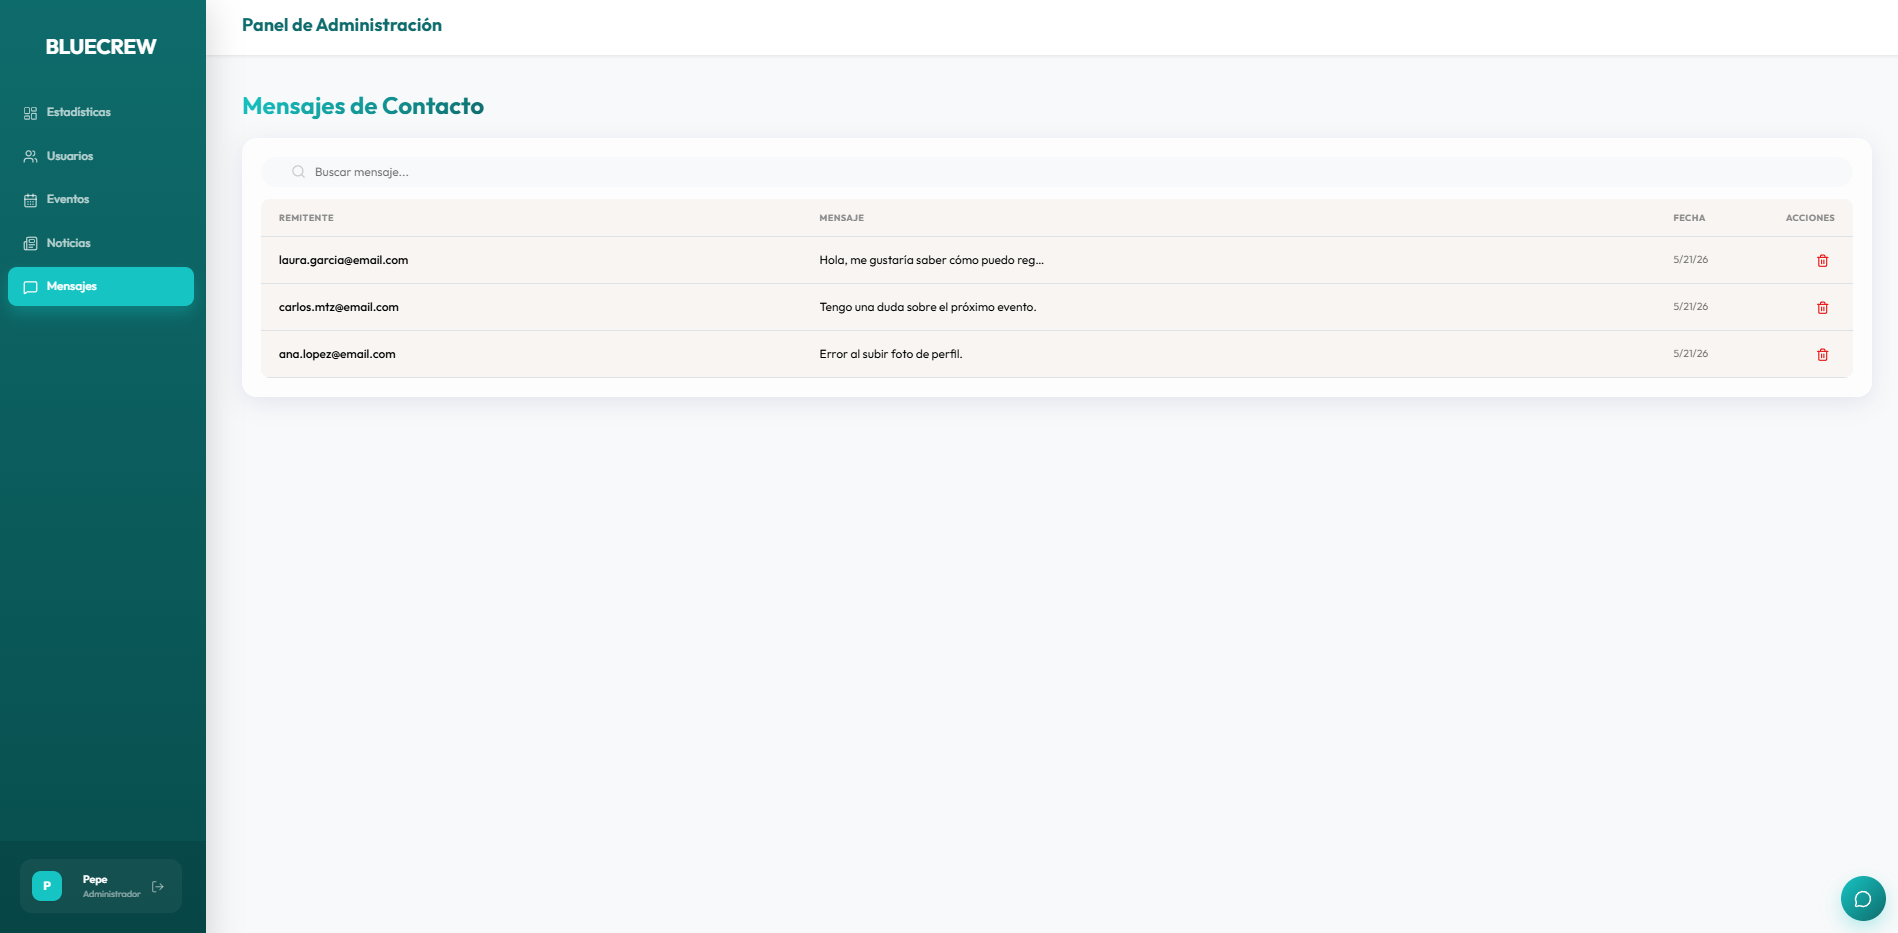
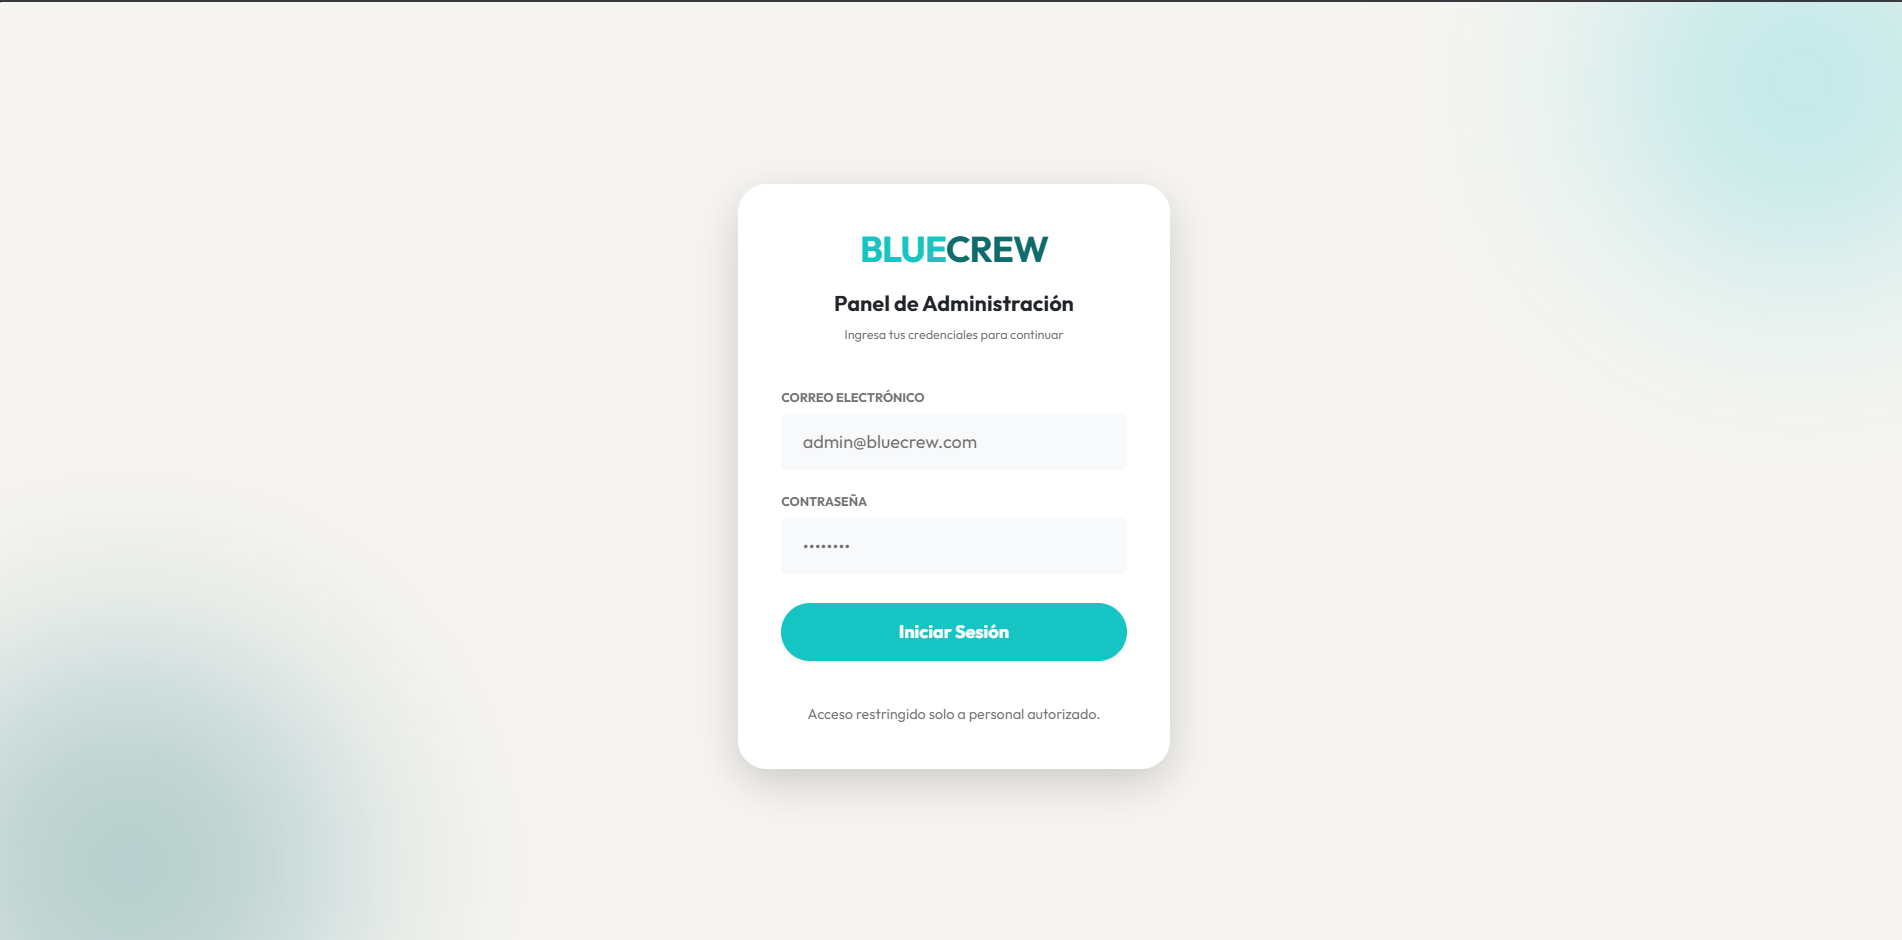
feat: actualizar y optimizar secciones del portfolio

diff --git a/src/components/Projects.tsx b/src/components/Projects.tsx
@@ -15,18 +15,18 @@ interface Project {
 
 const projects: Project[] = [
   {
-    title: 'BlueCrew ODS 14 Portal',
-    subtitle: 'Event platform focused on ODS 14: Life Below Water',
+    title: 'BlueCrew Web Portal',
+    subtitle: 'Plataforma de Concienciación y Gestión de Eventos Marinos (ODS 14)',
     description: 'Aplicación web interactiva dedicada a la concienciación y gestión de eventos medioambientales para la conservación y protección de la vida submarina (ODS 14). Permite a los usuarios registrarse en jornadas de limpieza de playas y fondos marinos, y monitorizar el impacto ecológico acumulado en tiempo real.',
-    tech: ['React', 'TypeScript', 'Tailwind CSS', 'Node.js', 'REST APIs', 'MySQL'],
+    tech: ['React', 'Bootstrap', 'Spring Boot', 'MySQL', 'Docker'],
     github: 'https://github.com/joelbm-dev/bluecrew-portal',
     demo: '#',
   },
   {
     title: 'BlueCrew Admin Panel',
-    subtitle: 'Moderation & User Management Dashboard',
+    subtitle: 'Sistema de Administración para la Plataforma BlueCrew',
     description: 'Panel de control administrativo e integral para la plataforma BlueCrew. Cuenta con herramientas completas para la gestión y moderación de usuarios, aprobación y auditoría de eventos de conservación marina, y un módulo analítico de estadísticas de participación comunitaria.',
-    tech: ['Angular', 'TypeScript', 'Java', 'Spring Boot', 'MySQL', 'Docker'],
+    tech: ['Angular', 'Bootstrap', 'Spring Boot', 'MySQL', 'Docker'],
     github: 'https://github.com/joelbm-dev/bluecrew-admin',
     demo: '#',
   }
@@ -36,11 +36,11 @@ const projects: Project[] = [
    IMAGE CAROUSEL FOR BLUECREW ODS 14 WEB PORTAL (WEB1 to WEB5)
 ───────────────────────────────────────────────────────────────────────────── */
 const WEB_IMAGES = [
-  { src: '/WEB1.png', title: 'Portal ODS 14 — Página Principal' },
-  { src: '/WEB2.png', title: 'Catálogo de Eventos Medioambientales' },
-  { src: '/WEB3.png', title: 'Registro de Voluntarios' },
-  { src: '/WEB4.png', title: 'Mapa de Impacto Ecológico' },
-  { src: '/WEB5.png', title: 'Estadísticas de Conservación Marina' },
+  { src: '/WEB1.png', title: 'Página Principal' },
+  { src: '/WEB2.png', title: 'Catálogo de Noticias' },
+  { src: '/WEB3.png', title: 'Catálogo de Eventos' },
+  { src: '/WEB4.png', title: 'Sobre Nosotros' },
+  { src: '/WEB5.png', title: 'Login' },
 ];
 
 const WebPortalCarousel = () => {
@@ -169,11 +169,11 @@ const WebPortalCarousel = () => {
    (Visualizes real administration panels ADMIN1 to ADMIN5)
 ───────────────────────────────────────────────────────────────────────────── */
 const ADMIN_IMAGES = [
-  { src: '/ADMIN1.png', title: 'Panel de Control - Vista General' },
+  { src: '/ADMIN1.png', title: 'Estadisticas de Actividad' },
   { src: '/ADMIN2.png', title: 'Gestión de Usuarios y Roles' },
-  { src: '/ADMIN3.png', title: 'Moderación de Eventos Marinos' },
-  { src: '/ADMIN4.png', title: 'Reportes de Actividad y ODS 14' },
-  { src: '/ADMIN5.png', title: 'Métricas de Participación' }
+  { src: '/ADMIN3.png', title: 'Moderación de Eventos' },
+  { src: '/ADMIN4.png', title: 'Moderación de Noticias' },
+  { src: '/ADMIN5.png', title: 'Login' }
 ];
 
 const AdminPanelCarousel = () => {

diff --git a/src/components/Education.tsx b/src/components/Education.tsx
@@ -102,7 +102,7 @@ const Education = () => {
                   </div>
 
                   {/* Calendar Badge */}
-                  <span className="flex items-center gap-1.5 text-xs font-mono font-bold text-accent-600 dark:text-accent-400 bg-accent-500/10 border border-accent-500/20 px-3 py-1.5 rounded-full w-fit">
+                  <span className="flex items-center gap-1.5 text-xs font-mono font-bold text-accent-600 dark:text-accent-400 bg-accent-500/10 border border-accent-500/20 px-3 py-1.5 rounded-full w-fit whitespace-nowrap shrink-0 md:mt-1">
                     <Calendar size={13} />
                     {item.date}
                   </span>

diff --git a/src/components/Footer.tsx b/src/components/Footer.tsx
@@ -45,7 +45,7 @@ const Footer = () => {
           <p className="flex items-center gap-1 mb-2">
             Desarrollado con <Heart size={14} className="text-accent-500" /> y React
           </p>
-          <p>&copy; {new Date().getFullYear()} Joel Barreira. Todos los derechos reservados.</p>
+          <p>&copy; {new Date().getFullYear()} joelbm-dev. Todos los derechos reservados.</p>
         </div>
       </div>
     </footer>

diff --git a/src/components/Hero.tsx b/src/components/Hero.tsx
@@ -128,7 +128,6 @@ const ROLES = [
   'Desarrollador Web Full Stack',
   'Técnico de Sistemas y Redes',
   'Especialista en RPA',
-  'Desarrollador Backend Java/Spring',
 ];
 
 /* ─────────────────────────────────────────────
